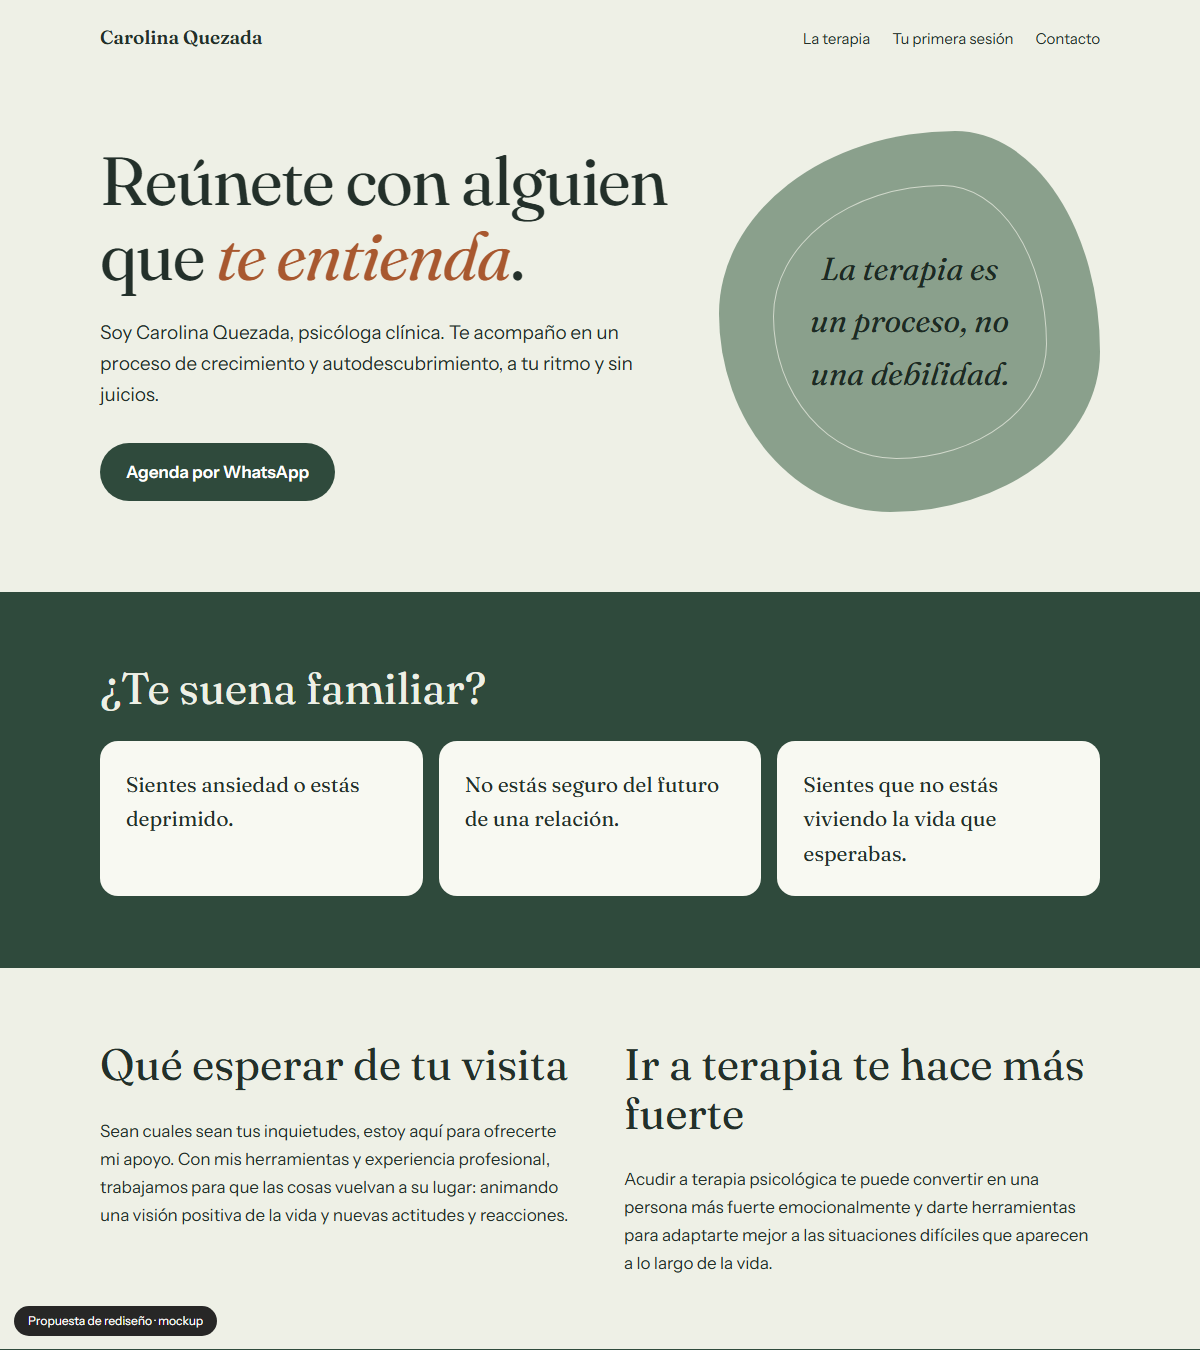
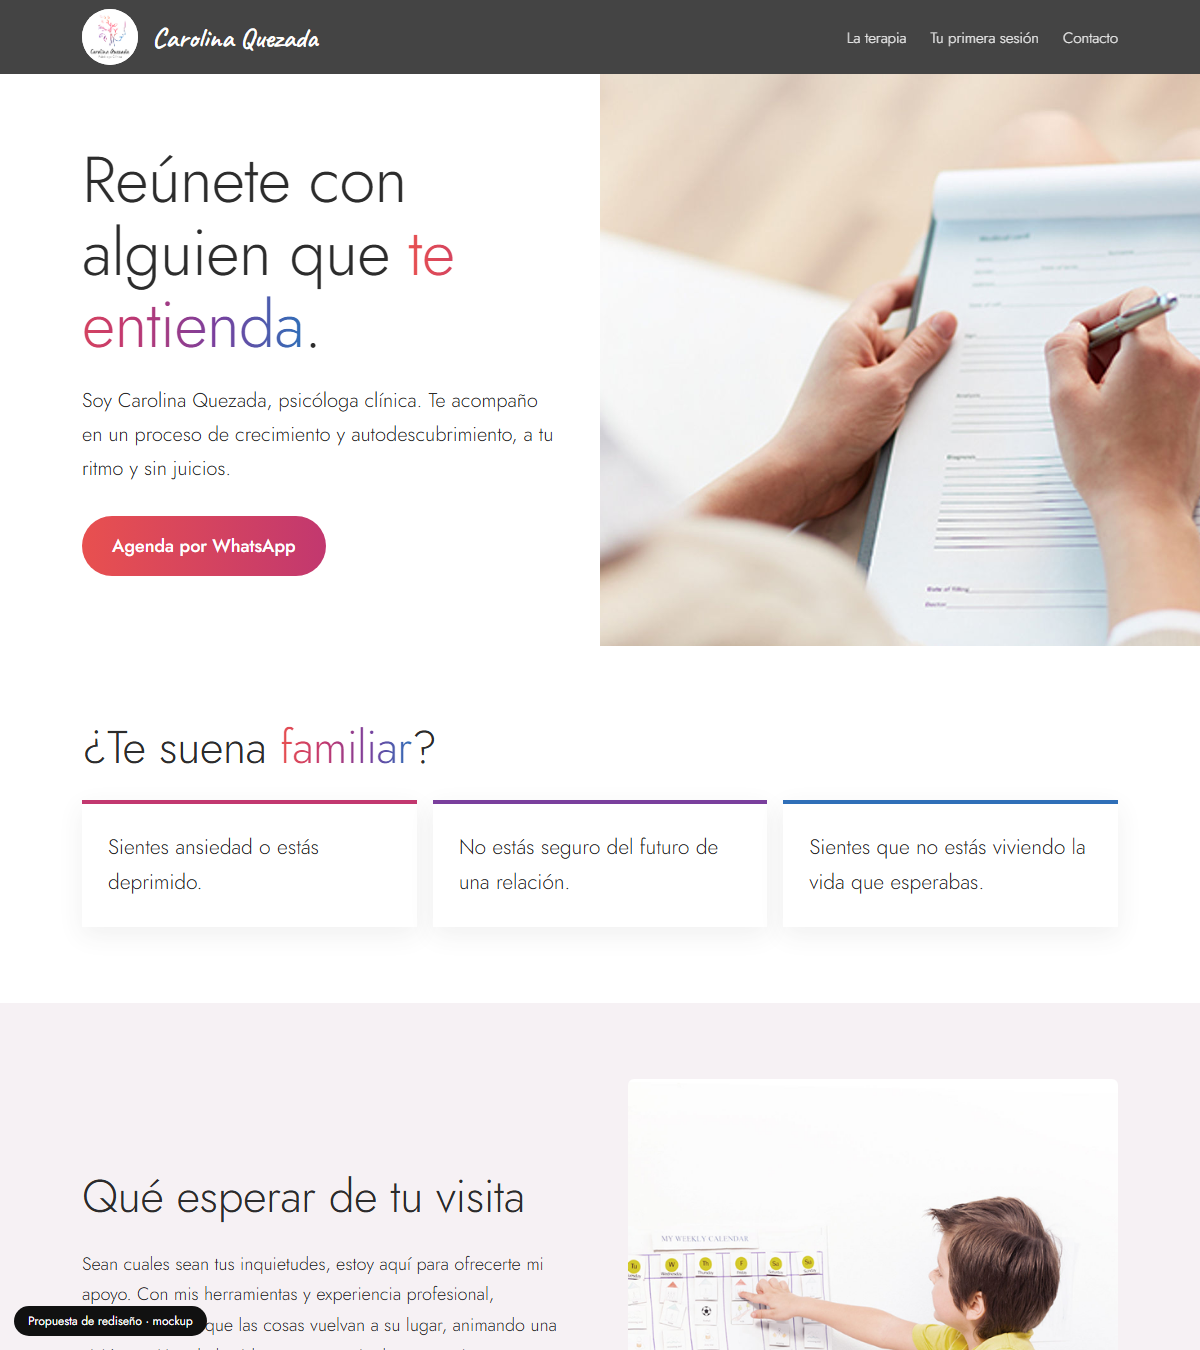
Mockup: psicologa-clinica-carolina-quezada-la-florida

diff --git a/psicologa-clinica-carolina-quezada-la-florida/index.html b/psicologa-clinica-carolina-quezada-la-florida/index.html
@@ -3,46 +3,50 @@
 <meta name="robots" content="noindex,nofollow">
 <title>Carolina Quezada · Psicóloga clínica en La Florida</title>
 <meta name="description" content="Terapia psicológica individual en La Florida con la psicóloga clínica Carolina Quezada. Agenda tu primera sesión por WhatsApp.">
-<link rel="preconnect" href="https://fonts.googleapis.com"><link rel="preconnect" href="https://fonts.gstatic.com" crossorigin>
-<link href="https://fonts.googleapis.com/css2?family=Fraunces:ital,opsz,wght@0,9..144,400;0,9..144,600;1,9..144,400&family=Instrument+Sans:wght@400;500;600&display=swap" rel="stylesheet">
+<link href="https://fonts.googleapis.com/css2?family=Caveat:wght@600&family=Jost:wght@300;400;500&display=swap" rel="stylesheet">
 <style>
-:root{--bg:#eef0e6;--ink:#23302a;--sage:#8aa08c;--deep:#2f4a3c;--clay:#c9825b;--card:#f8f9f2}
+:root{--char:#444444;--ink:#2c2c2c;--coral:#e8504f;--mag:#c2386f;--vio:#7a3f9d;--blue:#2f6fb8;--paper:#fff;--soft:#f6f1f4}
 *{box-sizing:border-box;margin:0}html{scroll-behavior:smooth}
-body{background:var(--bg);color:var(--ink);font:17px/1.65 'Instrument Sans',sans-serif}
-h1,h2,h3{font-family:Fraunces,serif;font-weight:400;line-height:1.1}
-a{color:inherit}.wrap{max-width:1040px;margin:0 auto;padding:0 20px}
-header{display:flex;justify-content:space-between;align-items:center;padding:22px 0}
-header b{font-family:Fraunces,serif;font-weight:600;font-size:19px}
-header nav a{margin-left:22px;text-decoration:none;font-size:15px}
-.hero{display:grid;grid-template-columns:1.2fr .8fr;gap:48px;align-items:center;padding:56px 0 80px}
-.hero h1{font-size:clamp(38px,6vw,68px);letter-spacing:-.02em}.hero h1 em{color:#a8582f}
-.hero p{margin:24px 0 32px;max-width:48ch;font-size:19px}
-.btn{display:inline-block;background:var(--deep);color:#fff;padding:15px 26px;border-radius:40px;text-decoration:none;font-weight:600}
-.btn:hover,.btn:focus-visible{background:#a8582f}
-.blob{aspect-ratio:1;background:var(--sage);border-radius:62% 38% 55% 45%/48% 58% 42% 52%;position:relative;display:grid;place-items:center}
-.blob::after{content:"";position:absolute;inset:14%;border:1.5px solid var(--bg);border-radius:inherit;opacity:.7}
-.blob span{font-family:Fraunces,serif;font-style:italic;font-size:clamp(22px,3vw,32px);color:#1d2a23;text-align:center;padding:0 22%}
-section{padding:72px 0}section h2{font-size:clamp(30px,4vw,44px);margin-bottom:28px}
-.alt{background:var(--deep);color:var(--bg)}
+body{background:var(--paper);color:var(--ink);font:300 18px/1.7 Jost,sans-serif}
+.wrap{max-width:1080px;margin:0 auto;padding:0 22px}
+h1,h2,h3{font-weight:300;line-height:1.12;letter-spacing:-.01em}
+.grad{background:linear-gradient(90deg,var(--coral),var(--mag),var(--vio),var(--blue));-webkit-background-clip:text;background-clip:text;color:transparent}
+header{background:var(--char);color:#fff}
+header .wrap{display:flex;justify-content:space-between;align-items:center;height:74px}
+header .brand{display:flex;align-items:center;gap:14px;font:600 28px Caveat,cursive}
+header img{height:56px;width:56px;border-radius:50%;background:#fff;object-fit:cover}
+header nav a{color:#fff;margin-left:24px;text-decoration:none;font-size:15px;opacity:.9}
+header nav a:hover{opacity:1;text-decoration:underline}
+.hero{display:grid;grid-template-columns:1fr 1fr;min-height:540px}
+.hero .t{padding:70px 40px 70px max(22px,calc((100vw - 1080px)/2 + 22px));display:flex;flex-direction:column;justify-content:center}
+.hero h1{font-size:clamp(38px,5.4vw,66px)}.hero p{margin:22px 0 30px;font-size:20px;max-width:42ch}
+.hero .i{background:url(assets/hero.jpg) center/cover;min-height:320px}
+.btn{align-self:flex-start;display:inline-block;background:linear-gradient(90deg,var(--coral),var(--mag));color:#fff;padding:15px 30px;border-radius:40px;text-decoration:none;font-weight:500}
+.btn:hover,.btn:focus-visible{background:linear-gradient(90deg,var(--vio),var(--blue))}
+section{padding:76px 0}h2{font-size:clamp(30px,4.2vw,46px);margin-bottom:26px}
 .q{display:grid;grid-template-columns:repeat(auto-fit,minmax(230px,1fr));gap:16px}
-.q div{background:var(--card);color:var(--ink);padding:26px;border-radius:18px;font-family:Fraunces,serif;font-size:21px}
-.two{display:grid;grid-template-columns:1fr 1fr;gap:48px}
-.contact{display:grid;gap:10px;font-size:19px}
-footer{padding:36px 0 90px;font-size:14px;opacity:.7}
-.mock{position:fixed;left:14px;bottom:14px;background:#111;color:#fff;font:12px/1 'Instrument Sans',sans-serif;padding:9px 14px;border-radius:30px;z-index:9;opacity:.9}
-@media(max-width:760px){.hero,.two{grid-template-columns:1fr}.blob{max-width:280px}header nav a:not(:last-child){display:none}}
-@media(prefers-reduced-motion:no-preference){.blob{animation:f 9s ease-in-out infinite alternate}@keyframes f{to{border-radius:45% 55% 40% 60%/55% 45% 58% 42%}}}
+.q div{background:#fff;border-top:4px solid var(--mag);padding:26px;font-size:21px;box-shadow:0 8px 24px rgba(68,68,68,.08)}
+.q div:nth-child(2){border-color:var(--vio)}.q div:nth-child(3){border-color:var(--blue)}
+.soft{background:var(--soft)}
+.two{display:grid;grid-template-columns:1fr 1fr;gap:56px;align-items:center}
+.two img{width:100%;aspect-ratio:1;object-fit:cover;border-radius:6px}
+.contact{background:var(--char);color:#fff}
+.contact .wrap{display:grid;grid-template-columns:1fr 1fr;gap:40px;align-items:center}
+.contact a{display:block;color:#fff;font-size:21px;margin:4px 0}.contact a:hover{color:#f3a7b3}
+.contact img{width:150px;border-radius:50%;background:#fff;margin-bottom:18px}
+footer{padding:28px 0 90px;font-size:14px;opacity:.7}
+.mock{position:fixed;left:14px;bottom:14px;background:#111;color:#fff;font:400 12px/1 Jost;padding:9px 14px;border-radius:30px;z-index:9}
+@media(max-width:780px){.hero,.two,.contact .wrap{grid-template-columns:1fr}.hero .t{padding:44px 22px}header nav a:not(:last-child){display:none}}
 </style></head><body>
-<div class="wrap"><header><b>Carolina Quezada</b><nav><a href="#terapia">La terapia</a><a href="#sesion">Tu primera sesión</a><a href="#contacto">Contacto</a></nav></header>
-<div class="hero"><div><h1>Reúnete con alguien que <em>te entienda</em>.</h1>
+<header><div class="wrap"><div class="brand"><img src="assets/logo.png" alt="Logo de Carolina Quezada">Carolina Quezada</div><nav><a href="#terapia">La terapia</a><a href="#sesion">Tu primera sesión</a><a href="#contacto">Contacto</a></nav></div></header>
+<div class="hero"><div class="t"><h1>Reúnete con alguien que <span class="grad">te entienda</span>.</h1>
 <p>Soy Carolina Quezada, psicóloga clínica. Te acompaño en un proceso de crecimiento y autodescubrimiento, a tu ritmo y sin juicios.</p>
-<a class="btn" href="https://wa.me/56978643762?text=Hola%20Carolina%2C%20quisiera%20agendar%20una%20primera%20sesi%C3%B3n">Agenda por WhatsApp</a></div>
-<div class="blob"><span>La terapia es un proceso, no una debilidad.</span></div></div></div>
-<section class="alt" id="terapia"><div class="wrap"><h2>¿Te suena familiar?</h2>
+<a class="btn" href="https://wa.me/56978643762?text=Hola%20Carolina%2C%20quisiera%20agendar%20una%20primera%20sesi%C3%B3n">Agenda por WhatsApp</a></div><div class="i" role="img" aria-label="Manos escribiendo notas en una carpeta clínica"></div></div>
+<section id="terapia"><div class="wrap"><h2>¿Te suena <span class="grad">familiar</span>?</h2>
 <div class="q"><div>Sientes ansiedad o estás deprimido.</div><div>No estás seguro del futuro de una relación.</div><div>Sientes que no estás viviendo la vida que esperabas.</div></div></div></section>
-<section id="sesion"><div class="wrap two"><div><h2>Qué esperar de tu visita</h2><p>Sean cuales sean tus inquietudes, estoy aquí para ofrecerte mi apoyo. Con mis herramientas y experiencia profesional, trabajamos para que las cosas vuelvan a su lugar: animando una visión positiva de la vida y nuevas actitudes y reacciones.</p></div>
-<div><h2>Ir a terapia te hace más fuerte</h2><p>Acudir a terapia psicológica te puede convertir en una persona más fuerte emocionalmente y darte herramientas para adaptarte mejor a las situaciones difíciles que aparecen a lo largo de la vida.</p></div></div></section>
-<section class="alt" id="contacto"><div class="wrap two"><div><h2>Agenda tu hora</h2><p>Escríbeme y coordinamos tu primera sesión.</p></div>
-<div class="contact"><a href="https://wa.me/56978643762">WhatsApp +56 9 7864 3762</a><a href="mailto:mcarolina.quezada@gmail.com">mcarolina.quezada@gmail.com</a><span>Walker Martínez 1612, La Florida</span><a href="https://www.instagram.com/ps_carolina_quezada">Instagram @ps_carolina_quezada</a></div></div></section>
+<section class="soft" id="sesion"><div class="wrap two"><div><h2>Qué esperar de tu visita</h2><p>Sean cuales sean tus inquietudes, estoy aquí para ofrecerte mi apoyo. Con mis herramientas y experiencia profesional, trabajamos para que las cosas vuelvan a su lugar, animando una visión positiva de la vida y nuevas actitudes y reacciones.</p><p style="margin-top:14px">Acudir a terapia te puede convertir en una persona más fuerte emocionalmente y darte herramientas para adaptarte mejor a las situaciones difíciles de la vida.</p></div>
+<img src="assets/child.jpg" alt="Sesión de terapia con un niño" loading="lazy"></div></section>
+<section class="contact" id="contacto"><div class="wrap"><div><img src="assets/logo.png" alt="Logo de Carolina Quezada"><h2 style="margin-bottom:10px">Agenda tu hora</h2><p>Escríbeme y coordinamos tu primera sesión.</p></div>
+<div><a href="https://wa.me/56978643762">WhatsApp +56 9 7864 3762</a><a href="mailto:mcarolina.quezada@gmail.com">mcarolina.quezada@gmail.com</a><span>Walker Martínez 1612, La Florida</span><a href="https://www.instagram.com/ps_carolina_quezada">Instagram @ps_carolina_quezada</a></div></div></section>
 <div class="wrap"><footer>Carolina Quezada · Psicóloga clínica</footer></div>
 <div class="mock">Propuesta de rediseño · mockup</div></body></html>
